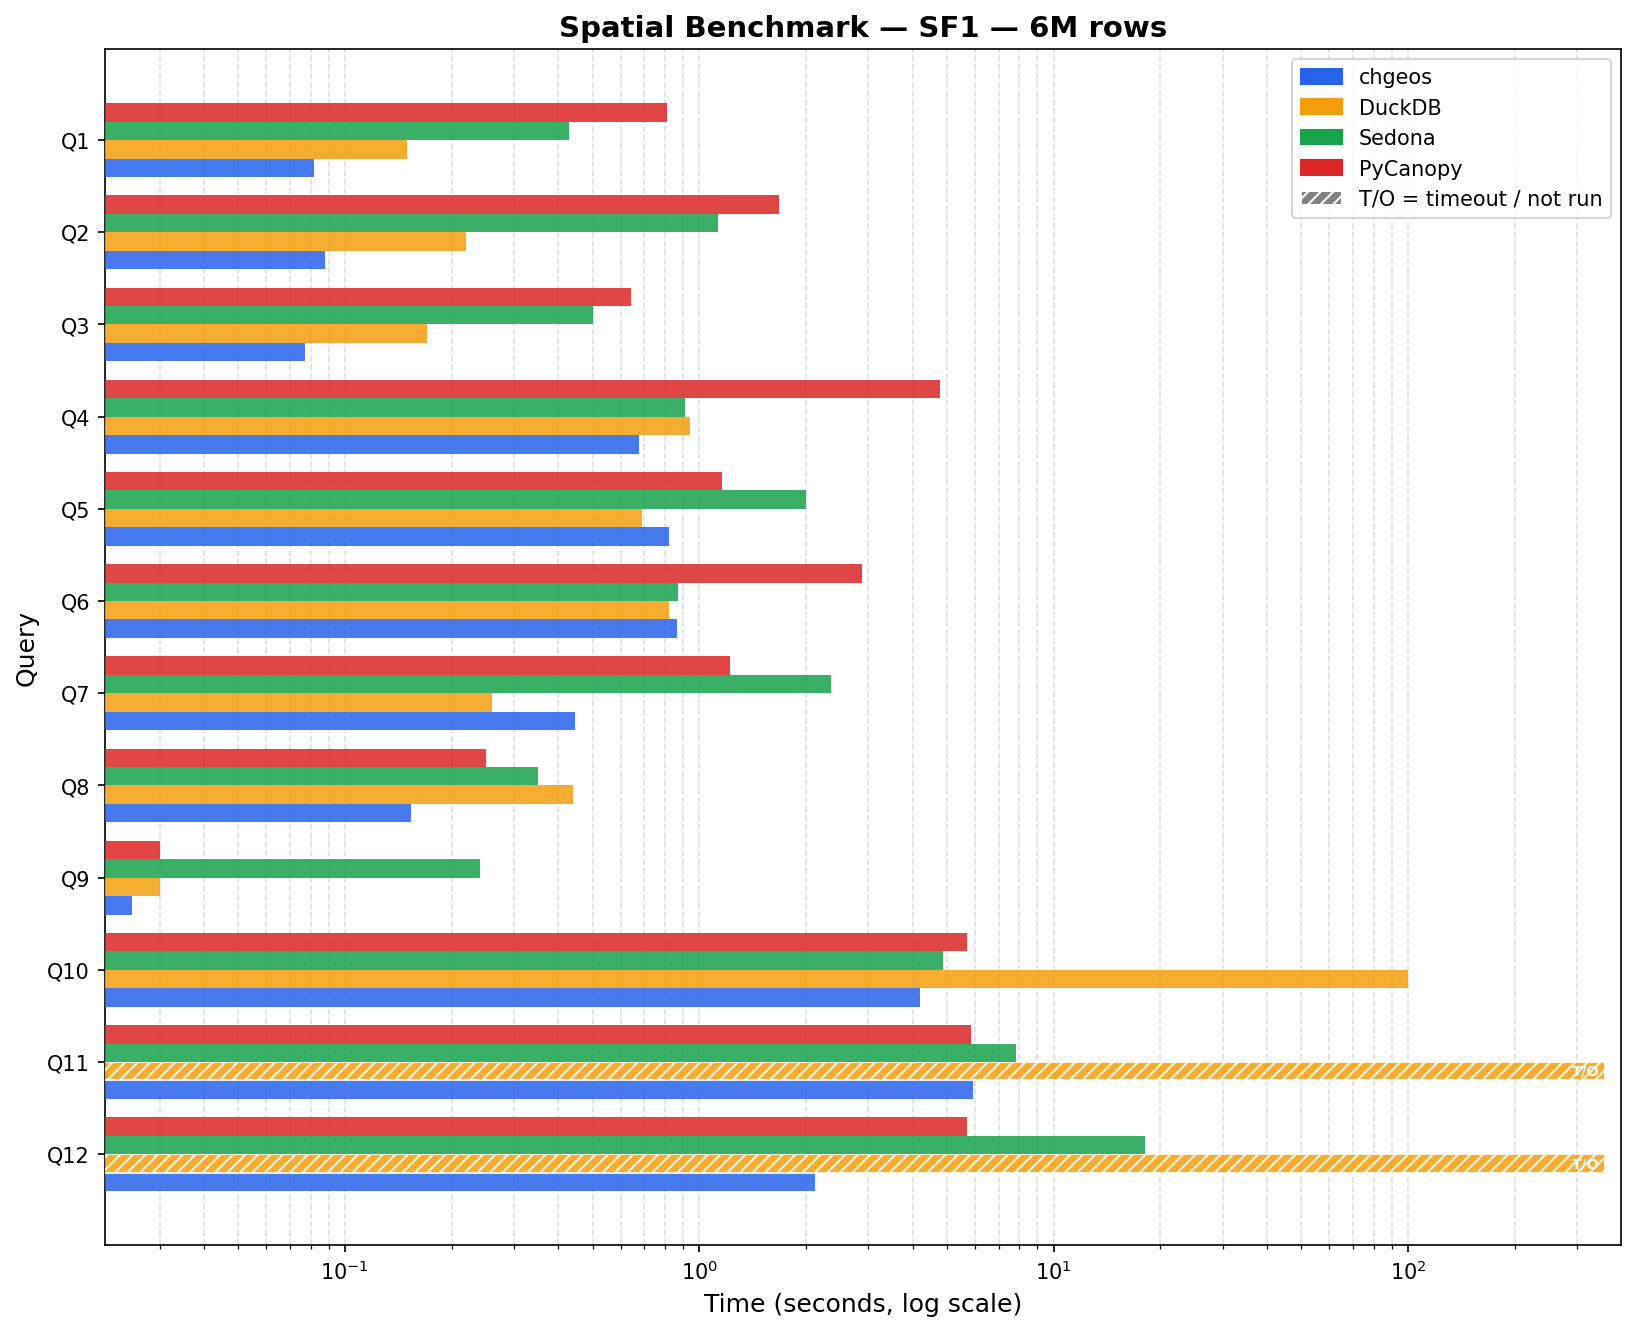
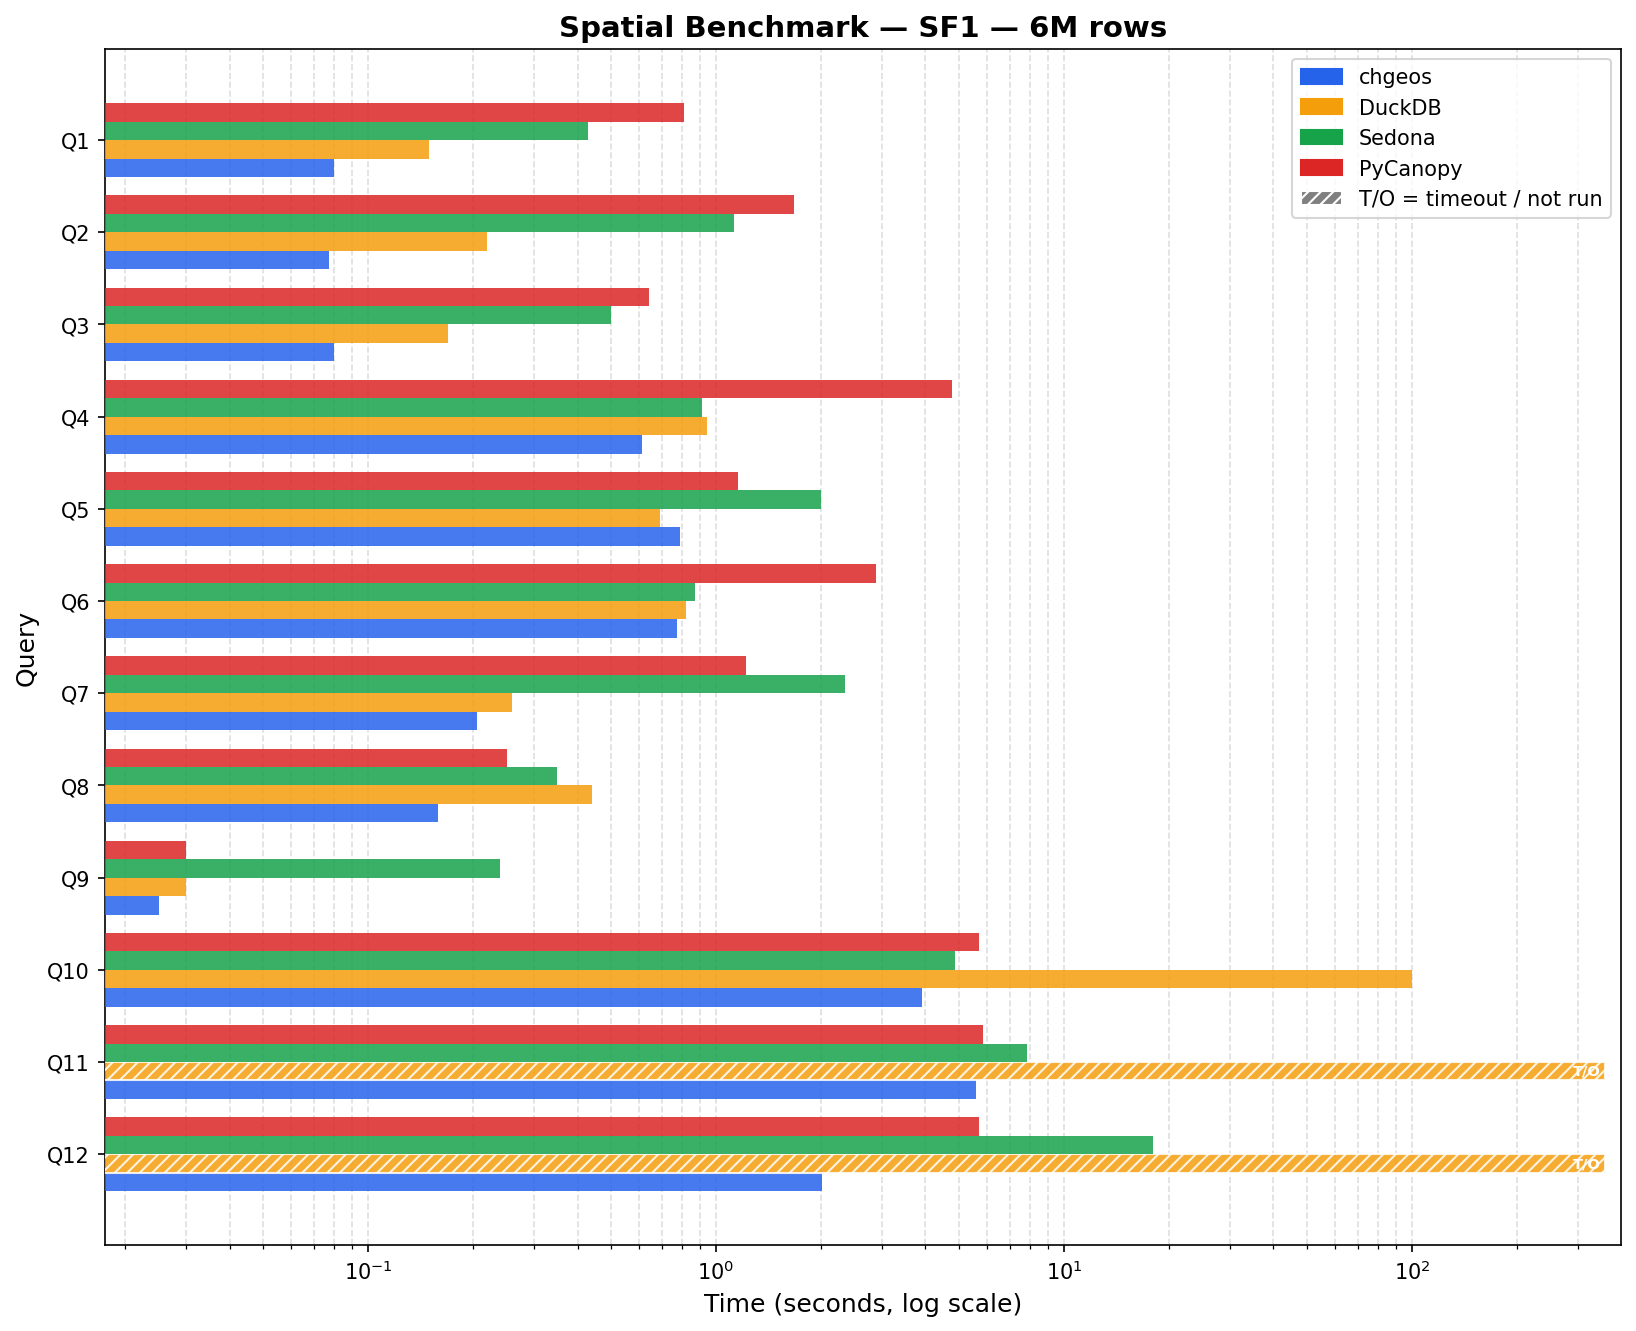
Re-measure benchmarks after flat chain path
Both scales re-run at 79063df on an idle machine, 5 runs per query, and
verified 12/12 against the spatialbench answers at SF1 and SF10 first.

Only Q7 moved beyond run-to-run width, from the flat-geometry chain path:
0.45 -> 0.21 s at SF1 and 3.95 -> 1.86 s at SF10.  SF1 Q7 now beats DuckDB
1.5.5 (0.26 s), taking the SF1 tally to chgeos 8 / DuckDB 1 / ties 3; the
SF10 tally is unchanged.

Prose updates: the Q7 note describes FlatBatch and the 2.5x remaining
marginal-cost gap, and the Q5 note records the is_aggregate vs groupArray
measurement behind 79063df.

Two drive-by fixes:
- the header claimed averages, but every number reported is the fastest
  of the 5 runs
- benchmark_results.json used status "ok" for chgeos while
  plot_benchmarks.py only counts "success", so chgeos times never fed the
  log-axis limits

diff --git a/BENCHMARK.md b/BENCHMARK.md
@@ -6,11 +6,11 @@ Apache Sedona (SedonaDB) and PyCanopy on the spatial benchmark suite.
 **Hardware:** AMD Ryzen 9 5900X, 128 GB RAM  
 **Dataset:** synthetic taxi trip data from https://github.com/apache/sedona-spatialbench — SF1 = 6M trips, SF10 = 60M trips  
 **Timeout:** 120 s (all engines)  
-**chgeos version:** 2026-08-06  
+**chgeos version:** 2026-08-07  
 **DuckDB version:** 1.5.5  
 **Sedona version:** 0.3.0  
 **PyCanopy:** measured 2026-07-29  
-**Runs:** 5 per query (average reported)  
+**Runs:** 5 per query (fastest reported)  
 **Winner:** fastest engine; margins under 5% are reported as a tie
 
 ---
@@ -20,24 +20,27 @@ Apache Sedona (SedonaDB) and PyCanopy on the spatial benchmark suite.
 | Query | Description                        | chgeos   | DuckDB   | Sedona  | PyCanopy | Winner   |
 |-------|------------------------------------|----------|----------|---------|----------|----------|
 | Q1    | Point-in-radius filter             | 0.08 s   | 0.15 s   | 0.43 s  | 0.81 s   | chgeos   |
-| Q2    | Count trips in county polygon      | 0.09 s   | 0.22 s   | 1.13 s  | 1.68 s   | chgeos   |
+| Q2    | Count trips in county polygon      | 0.08 s   | 0.22 s   | 1.13 s  | 1.68 s   | chgeos   |
 | Q3    | Monthly stats in bbox+buffer       | 0.08 s   | 0.17 s   | 0.50 s  | 0.64 s   | chgeos   |
-| Q4    | Zone distribution (top-1000 tips)  | 0.67 s   | 0.94 s   | 0.91 s  | 4.78 s   | chgeos   |
-| Q5    | Convex hull area per customer/month| 0.82 s   | 0.69 s   | 2.00 s  | 1.16 s   | DuckDB   |
-| Q6    | Zone stats for bbox-intersect zones| 0.87 s   | 0.82 s   | 0.87 s  | 2.88 s   | Tie      |
-| Q7    | Detour ratio (all trips)           | 0.45 s   | 0.26 s   | 2.35 s  | 1.22 s   | DuckDB   |
-| Q8    | Nearby pickups per building        | 0.15 s   | 0.44 s   | 0.35 s  | 0.25 s   | chgeos   |
+| Q4    | Zone distribution (top-1000 tips)  | 0.61 s   | 0.94 s   | 0.91 s  | 4.78 s   | chgeos   |
+| Q5    | Convex hull area per customer/month| 0.79 s   | 0.69 s   | 2.00 s  | 1.16 s   | DuckDB   |
+| Q6    | Zone stats for bbox-intersect zones| 0.78 s   | 0.82 s   | 0.87 s  | 2.88 s   | Tie      |
+| Q7    | Detour ratio (all trips)           | 0.21 s   | 0.26 s   | 2.35 s  | 1.22 s   | chgeos   |
+| Q8    | Nearby pickups per building        | 0.16 s   | 0.44 s   | 0.35 s  | 0.25 s   | chgeos   |
 | Q9    | Building conflation via IoU        | 0.03 s   | 0.03 s   | 0.24 s  | 0.03 s   | Tie      |
-| Q10   | Zone avg duration/distance         | 4.21 s   | 99.97 s  | 4.87 s  | 5.70 s   | chgeos   |
-| Q11   | Cross-zone trip count              | 5.93 s   | TIMEOUT  | 7.82 s  | 5.84 s   | Tie      |
-| Q12   | 5 nearest buildings per trip (kNN) | 2.12 s   | TIMEOUT  | 18.07 s | 5.71 s   | chgeos   |
+| Q10   | Zone avg duration/distance         | 3.92 s   | 99.97 s  | 4.87 s  | 5.70 s   | chgeos   |
+| Q11   | Cross-zone trip count              | 5.58 s   | TIMEOUT  | 7.82 s  | 5.84 s   | Tie      |
+| Q12   | 5 nearest buildings per trip (kNN) | 2.02 s   | TIMEOUT  | 18.07 s | 5.71 s   | chgeos   |
 
-**SF1 wins — chgeos: 7, DuckDB: 2, Sedona: 0, PyCanopy: 0, Ties: 3**
+**SF1 wins — chgeos: 8, DuckDB: 1, Sedona: 0, PyCanopy: 0, Ties: 3**
 
 Q6 and Q11 are scored as ties on measurement grounds rather than by the 5% rule.
-Q6 is 6% apart, but chgeos alone spans 0.86–0.88 s across repeat runs, so the
-margin is inside its own width. Q11 is 1.5% apart, and PyCanopy's 5.84 s is a
-2026-07-29 measurement being compared against a 2026-08-06 chgeos number.
+Q6 is 6% apart, but chgeos alone spans 0.78–0.89 s across repeat runs, so the
+margin is inside its own width. Q11 is 4.5% apart, and PyCanopy's 5.84 s is a
+2026-07-29 measurement being compared against a 2026-08-07 chgeos number.
+
+Q7 changed hands since the previous revision: the flat-geometry chain path took it
+from 0.45 s to 0.21 s, past DuckDB's 0.26 s. See the Q7 note below.
 
 **The SF1 tally understates DuckDB, and the cause is our Parquet files.** `sf1/trip.parquet`
 holds 6M rows in only 4 row groups. DuckDB caps a scan pipeline's thread count at the number
@@ -51,8 +54,8 @@ rather than chgeos being faster, and DuckDB would likely take some of them on fi
 smaller row groups. We cannot say how many: two scale factors are not enough to separate the
 thread cap from DuckDB's fixed per-query overhead (~0.15 s, versus roughly zero for chgeos),
 and the two models do not predict the same SF10 times. Until the data is regenerated with
-smaller row groups, **treat SF10 as the primary comparison.** The Q7 gap is not explained by
-this and is real at both scales — see the Q7 note below.
+smaller row groups, **treat SF10 as the primary comparison.** The SF10 Q7 gap is not
+explained by this — see the Q7 note below.
 
 ![SF1 benchmark](sf1.png)
 
@@ -62,37 +65,37 @@ this and is real at both scales — see the Q7 note below.
 
 | Query | Description                        | chgeos    | DuckDB   | Sedona   | PyCanopy | Winner   |
 |-------|------------------------------------|-----------|----------|----------|----------|----------|
-| Q1    | Point-in-radius filter             | 0.54 s    | 0.38 s   | 0.94 s   | 18.93 s  | DuckDB   |
+| Q1    | Point-in-radius filter             | 0.52 s    | 0.38 s   | 0.94 s   | 18.93 s  | DuckDB   |
 | Q2    | Count trips in county polygon      | 0.67 s    | 0.54 s   | 1.64 s   | 12.81 s  | DuckDB   |
-| Q3    | Monthly stats in bbox+buffer       | 0.51 s    | 0.52 s   | 1.43 s   | 14.59 s  | Tie      |
-| Q4    | Zone distribution (top-1000 tips)  | 1.14 s    | 0.98 s   | 1.86 s   | 19.80 s  | DuckDB   |
-| Q5    | Convex hull area per customer/month| 8.89 s    | 6.11 s   | 42.43 s  | 21.93 s  | DuckDB   |
-| Q6    | Zone stats for bbox-intersect zones| 1.80 s    | 1.60 s   | 2.86 s   | 7.74 s   | DuckDB   |
-| Q7    | Detour ratio (all trips)           | 3.95 s    | 0.93 s   | 42.28 s  | 14.39 s  | DuckDB   |
+| Q3    | Monthly stats in bbox+buffer       | 0.50 s    | 0.52 s   | 1.43 s   | 14.59 s  | Tie      |
+| Q4    | Zone distribution (top-1000 tips)  | 1.10 s    | 0.98 s   | 1.86 s   | 19.80 s  | DuckDB   |
+| Q5    | Convex hull area per customer/month| 8.95 s    | 6.11 s   | 42.43 s  | 21.93 s  | DuckDB   |
+| Q6    | Zone stats for bbox-intersect zones| 1.77 s    | 1.60 s   | 2.86 s   | 7.74 s   | DuckDB   |
+| Q7    | Detour ratio (all trips)           | 1.86 s    | 0.93 s   | 42.28 s  | 14.39 s  | DuckDB   |
 | Q8    | Nearby pickups per building        | 1.69 s    | 1.77 s   | 2.02 s   | 2.69 s   | Tie      |
 | Q9    | Building conflation via IoU        | 0.10 s    | 0.13 s   | 0.37 s   | 0.06 s   | PyCanopy |
-| Q10   | Zone avg duration/distance         | 31.58 s   | TIMEOUT  | 17.02 s  | 27.05 s  | Sedona   |
-| Q11   | Cross-zone trip count              | 41.19 s   | TIMEOUT  | TIMEOUT  | 42.97 s  | Tie      |
-| Q12   | 5 nearest buildings per trip (kNN) | 27.35 s   | TIMEOUT  | TIMEOUT  | 98.60 s  | chgeos   |
+| Q10   | Zone avg duration/distance         | 28.25 s   | TIMEOUT  | 17.02 s  | 27.05 s  | Sedona   |
+| Q11   | Cross-zone trip count              | 40.96 s   | TIMEOUT  | TIMEOUT  | 42.97 s  | Tie      |
+| Q12   | 5 nearest buildings per trip (kNN) | 27.29 s   | TIMEOUT  | TIMEOUT  | 98.60 s  | chgeos   |
 
 **SF10 wins — chgeos: 1, DuckDB: 6, Sedona: 1, PyCanopy: 1, Ties: 3**
 
-Both chgeos columns were re-measured on 2026-08-06 on an idle machine after commit
-`ea6c42c` (GEOS factory/reader hoist), and every query was checked against the
-spatialbench reference answers first (SF1 and SF10 both 12/12). Only Q7 moved by
-more than the noise floor: 0.63 → 0.45 s at SF1 and 5.91 → 3.95 s at SF10, which
-is consistent across both scales and matches the code that changed. The other
-SF10 rows came in 6–27% below the pre-commit run, but SF1 showed those same
-queries flat, and Q1–Q4 sit inside the ±25% Parquet-I/O drift band described
-below — so those deltas are machine state, not the commit. The Q3, Q8 and Q11
-ties are all under 5%, and Q3 and Q11 flipped from a DuckDB and a PyCanopy win
-purely on that margin.
+Both chgeos columns were re-measured on 2026-08-07 on an idle machine at commit
+`79063df`, and every query was checked against the spatialbench reference answers
+first (SF1 and SF10 both 12/12). Only Q7 moved by more than the noise floor:
+0.45 → 0.21 s at SF1 and 3.95 → 1.86 s at SF10, both from the flat-geometry chain
+path described in the Q7 note. Every other query landed within its own run-to-run
+width of the 2026-08-06 measurement, including Q5, which changed aggregation
+strategy — see the Q5 note. Repeat spreads on this run were at most 1.2× between
+the fastest and slowest of the 5 runs, so the sub-second rows are tighter than
+usual; they are still Parquet-I/O bound and still drift ±25% across machine
+states. The Q3, Q8 and Q11 ties are all under 5%, and Q3 and Q11 flipped from a
+DuckDB and a PyCanopy win purely on that margin.
 Both DuckDB columns were re-measured on 2026-08-06 with DuckDB 1.5.5, which is far
 faster than the 1.5.2 numbers this file used to carry (SF10 Q7 68.31 s → 0.93 s,
 SF1 Q7 6.53 s → 0.26 s, SF1 Q10 TIMEOUT → 99.97 s). Sedona is from 2026-05-06 and
 PyCanopy from 2026-07-29, and neither has been re-measured since.
-Q1–Q4 are Parquet-I/O bound and drift ±25% with machine state, so treat the
-sub-2-second SF10 rows as indicative, not as a ranking.
+Treat the sub-2-second SF10 rows as indicative, not as a ranking.
 
 ![SF10 benchmark](sf10.png)
 
@@ -104,19 +107,27 @@ sub-2-second SF10 rows as indicative, not as a ranking.
 hint is required to keep the WASM convex hull running on parallel threads before the
 ORDER BY merge. Without it, ClickHouse defers the function to the single-threaded
 post-sort stage, causing ~7× slowdown. Q5 also needs `max_bytes_ratio_before_external_group_by=0`
-at SF10: it accumulates ~21 GiB across 3.1M groups, and the default ratio spills to disk at
+at SF10: it accumulates ~15 GiB across 3.1M groups, and the default ratio spills to disk at
 0.5 × `max_server_memory_usage`, costing ~3.5 s. DuckDB leads at both scales (0.69 s vs
-chgeos 0.82 s at SF1, 6.11 s vs 8.89 s at SF10); PyCanopy is 22 s at SF10 and Sedona 4×
+chgeos 0.79 s at SF1, 6.11 s vs 8.95 s at SF10); PyCanopy is 22 s at SF10 and Sedona 4×
 slower (42 s).
+
+`st_collect_agg` can be registered either as a plain WASM UDF fed by `groupArray`, or as a
+native aggregate via `SETTINGS is_aggregate = 1`, which accumulates rows into arena nodes
+and skips building the intermediate array. Measured head to head on this query, the
+`groupArray` form wins at both scales — 0.79 s vs 1.09 s at SF1 and 8.95 s vs 10.82 s at
+SF10 — for 0.1–0.5 GiB more peak memory, so `st_collect_agg` dropped the setting in commit
+`79063df`. The other four `*_agg` functions keep it.
 
 **Q7 (detour ratio):** Scans all rows computing `st_length(st_makeline(...))` with no
 spatial join. WasmChainFusionPass fuses `st_makeline → st_length` into a single WASM
 call, eliminating the intermediate WKB round-trip. That is enough to beat Sedona (2.35 s /
-42.3 s) and PyCanopy (1.22 s / 14.4 s) at both scales, but DuckDB 1.5.5 wins the query
-outright — 0.26 s vs 0.45 s at SF1 and 0.93 s vs 3.95 s at SF10. DuckDB 1.5.2 needed
-6.53 s / 68.3 s here, so most of the swing is a DuckDB improvement of 25× / 73×, not a
-chgeos regression. This is the largest single gap against chgeos in the suite, and unlike
-the SF1 rows above it is not an artifact of the file layout — it is real at both scales.
+42.3 s) and PyCanopy (1.22 s / 14.4 s) at both scales, and since the flat path below it
+also takes SF1 from DuckDB 1.5.5 — 0.21 s vs 0.26 s. DuckDB still wins SF10, 0.93 s vs
+1.86 s. DuckDB 1.5.2 needed 6.53 s / 68.3 s here, so most of that engine's position is a
+25× / 73× improvement on its own side, not a chgeos regression. The remaining SF10 gap is
+the largest against chgeos in the suite, and unlike the SF1 rows above it is not an
+artifact of the file layout.
 
 Reading the DuckDB sources explains the remainder: DuckDB does not use GEOS for this
 query at all. Its `sgl` geometry layer treats a deserialized POINT as a pointer into the
@@ -125,15 +136,24 @@ buffer, and computes `ST_Length` as a plain loop over the vertex array. GEOS is 
 module reserved for real topology (`ST_Intersects`, `ST_Within`, `ST_Contains`). chgeos
 instead parses WKB into a GEOS geometry tree for every row.
 
-Part of that cost turned out to be ours rather than GEOS's. `read_wkb` was constructing a
-`GeometryFactory` and a `WKBReader` on every call, and Q7 calls it twice per row — 12M
-reader constructions at SF1, 120M at SF10. Hoisting both to statics over the shared
-default factory (commit `ea6c42c`) cut Q7 by 29% at SF1 and 33% at SF10 with no change to
-the geometry code or the results. Marginal cost per million rows is now 0.065 s for chgeos
-against 0.012 s for DuckDB, a 5.2× gap, down from 7.9× before the hoist and still well
-above the 1.2–2.0× seen on the filter-dominated Q1–Q3. Closing the rest would mean a
-non-GEOS fast path for POINT and short LINESTRING, which is a larger design question than
-a hot-path fix.
+Most of that cost turned out to be ours rather than GEOS's, and it came off in two steps.
+First, `read_wkb` was constructing a `GeometryFactory` and a `WKBReader` on every call, and
+Q7 calls it twice per row — 12M reader constructions at SF1, 120M at SF10. Hoisting both to
+statics over the shared default factory (commit `ea6c42c`) cut Q7 by 29% / 33%.
+
+Second, the chain machinery grew a non-GEOS currency. Alongside `Geometry`, a chain can pass
+a `FlatBatch` between stages: one contiguous `xy` array with ring and row offset arrays, no
+per-row allocation and no geometry tree. `st_makeline` builds one straight from the two WKB
+points and `st_length` sums vertex runs out of it, so the fused Q7 chain now runs end to end
+without entering GEOS. A stage joins the flat path only if it can produce bit-identical
+output, NaN handling and accumulation order included; anything that cannot declines the block
+and GEOS runs it, which is why the reference answers are unchanged. That took Q7 from 0.45 s
+to 0.21 s at SF1 and 3.95 s to 1.86 s at SF10.
+
+Marginal cost per million rows is now 0.031 s for chgeos against 0.012 s for DuckDB, a 2.5×
+gap — down from 5.2× after the hoist and 7.9× before it, and approaching the 1.2–2.0× seen
+on the filter-dominated Q1–Q3. What remains is the WKB parse itself, which the flat path
+still performs per row while DuckDB reads points in place out of the Parquet blob.
 
 **Q9 (building IoU):** Self-join of ~20K buildings. SpatialRTreeJoin evaluates
 non-spatial ON conditions (e.g. `b1.id < b2.id`) as a pre-filter before the spatial
@@ -141,20 +161,20 @@ predicate, cutting candidate pairs dramatically. At SF1 chgeos, DuckDB and PyCan
 land at 0.03 s, which is below the resolution of these measurements — scored as a tie.
 At SF10 chgeos beats DuckDB and Sedona but PyCanopy is faster (0.06 s vs 0.10 s).
 
-**Q10 at SF10:** Sedona wins (17 s vs chgeos 32 s and PyCanopy 27 s, DuckDB TIMEOUT).
+**Q10 at SF10:** Sedona wins (17 s vs chgeos 28 s and PyCanopy 27 s, DuckDB TIMEOUT).
 Sedona's DataFusion task-parallel build/probe model handles the large trip build side
 more efficiently. DuckDB cannot complete within 120 s.
 
 **Q11 at SF10:** Sedona times out because it materializes the intermediate
 trip×pickup_zone result before applying the second zone join, causing memory explosion
 at SF10. chgeos handles both zone joins in a single `SpatialRTreeDoubleJoin` pass
-(41.2 s vs TIMEOUT for both DuckDB and Sedona). PyCanopy also completes at 43.0 s, but
-that figure is from 2026-07-29 and the 4% margin is inside the noise — scored a tie.
+(41.0 s vs TIMEOUT for both DuckDB and Sedona). PyCanopy also completes at 43.0 s, but
+that figure is from 2026-07-29 and the 5% margin is inside the noise — scored a tie.
 
 **Q12 (kNN):** WASM `st_knn` uses a static 2-D centroid k-d tree for candidate selection,
 then refines the surviving candidates to an exact point-to-geometry distance. The tree
 alone reports centroid distance, which is not what `ST_Distance` means — before the
 refinement landed, Q12 disagreed with the reference answers. Refinement reads coordinates
 flattened once at index build, so it needs no GEOS parse per row, and Q12 got
-*faster*: 10.9 s → 2.1 s at SF1, 103.8 s → 27.3 s at SF10. chgeos now leads the query at
+*faster*: 10.9 s → 2.0 s at SF1, 103.8 s → 27.3 s at SF10. chgeos now leads the query at
 both scales; DuckDB and Sedona still time out at SF10, and PyCanopy is 5.7 s / 98.6 s.
